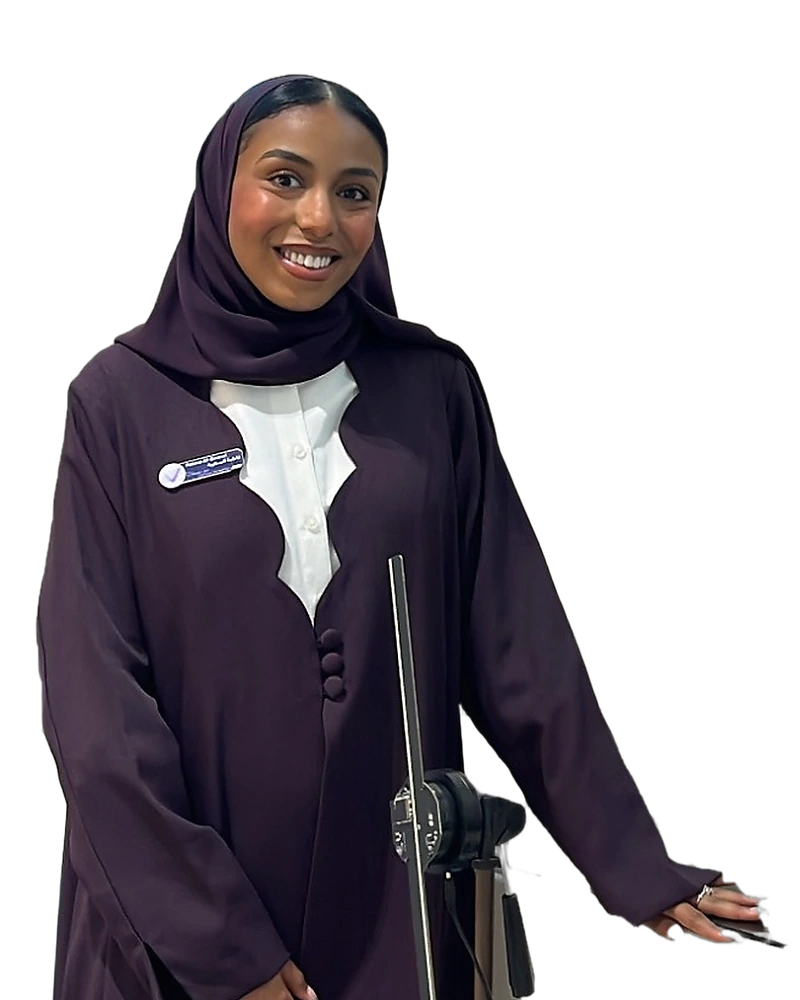
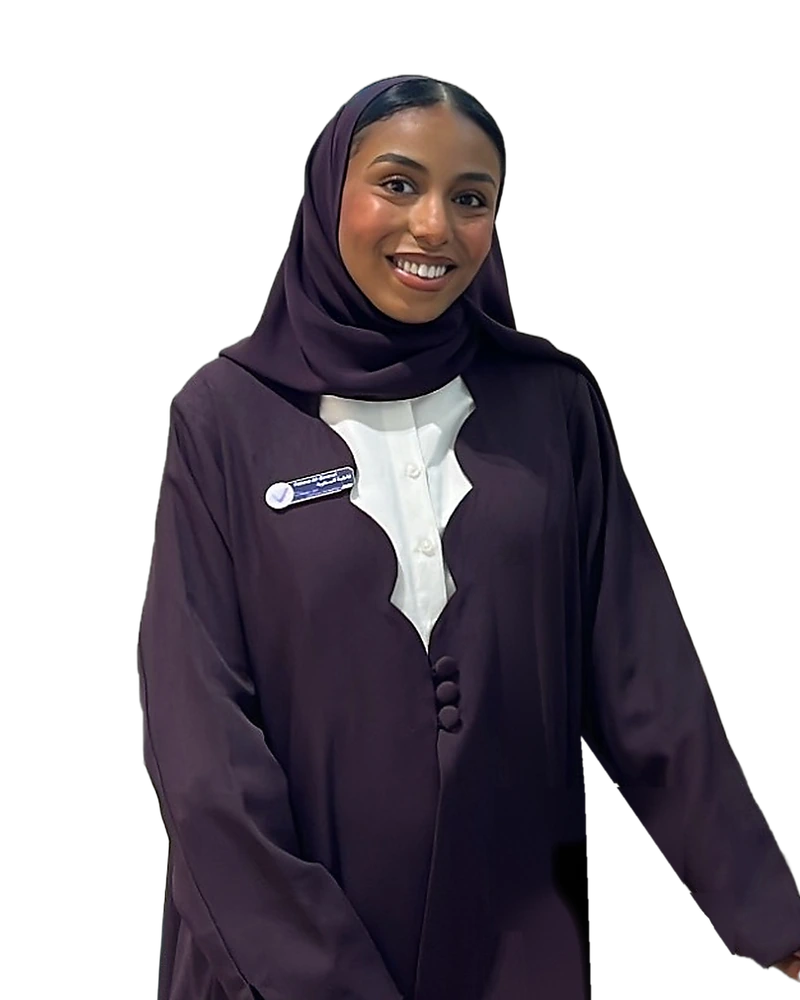
Fatma's photo without the fan, centred and sharper
Claude-Session: https://claude.ai/code/session_01UqYfgUVQ71Z2mj6btitSC8

diff --git a/src/content/team.ts b/src/content/team.ts
@@ -9,7 +9,7 @@ export type Member = {
 }
 
 export const TEAM: Member[] = [
-  { id: 'fatma', photo: '/team/fatma.webp?v=6', hd: true },
+  { id: 'fatma', photo: '/team/fatma.webp?v=8', hd: true },
   { id: 'anaum', photo: '/team/anaum.webp' },
   { id: 'anas', photo: '/team/anas.webp?v=3' },
   { id: 'ibtisam', photo: '/team/ibtisam.webp' },
